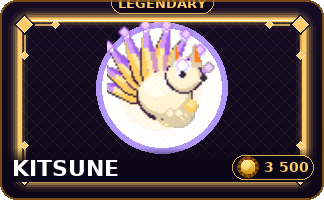
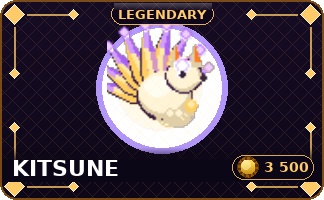
Baroque: replace solid border with corner-ornament frame
Remove GEM rectangle border and its glow. Corner flourishes (diamond pips
+ arm lines) move to the outer card corners with longer arms (46px), now
acting as the frame. Trellis pattern fills the full card. Pill anchored to
corner-arm height at top center.

Changed region(s): [[0.0, 0.0, 0.9877, 0.81], [0.0, 0.9, 0.9877, 0.99]]

diff --git a/tools/render_baroque_v5_r2.py b/tools/render_baroque_v5_r2.py
@@ -39,48 +39,20 @@ soft_glow(card, ART_CX, ART_CY, 72, (160, 140, 220), peak_alpha=50, layers=12)
 soft_glow(card, ART_CX, ART_CY, 45, GEM, peak_alpha=25, layers=6)
 card.blit(art_big, (ART_CX - art_w // 2, ART_CY - art_h // 2))
 
-# ── Diagonal diamond trellis CLIPPED TO INSIDE BORDER ONLY ────────────────────
-# Draw trellis to a temp surface then clip to inner rect via SRCALPHA mask
+# ── Diagonal diamond trellis — full card ──────────────────────────────────────
 TRELLIS_SPACING = 16
 trellis_full = pygame.Surface((W, H), pygame.SRCALPHA)
 for offset in range(-H, W + H, TRELLIS_SPACING):
     pygame.draw.line(trellis_full, (*GEM, 28), (offset, 0), (offset + H, H))
 for offset in range(0, W + H + H, TRELLIS_SPACING):
     pygame.draw.line(trellis_full, (*GEM, 28), (offset, 0), (offset - H, H))
+card.blit(trellis_full, (0, 0))
 
-# Create inner-border mask (filled rounded rect)
-inner_mask = pygame.Surface((W, H), pygame.SRCALPHA)
-inner_mask.fill((0, 0, 0, 0))
-pygame.draw.rect(inner_mask, (255, 255, 255, 255),
-                 (BDR_INSET + 2, BDR_INSET + 2,
-                  W - (BDR_INSET + 2) * 2, H - (BDR_INSET + 2) * 2),
-                 border_radius=BR)
-
-trellis_clipped = pygame.Surface((W, H), pygame.SRCALPHA)
-trellis_clipped.blit(trellis_full, (0, 0))
-trellis_clipped.blit(inner_mask, (0, 0), special_flags=pygame.BLEND_RGBA_MIN)
-card.blit(trellis_clipped, (0, 0))
-
-# ── GEM border: 4px + 5-layer outward glow ────────────────────────────────────
-for extra, alpha in [(10, 14), (7, 28), (5, 48), (3, 75), (1, 110)]:
-    gs = pygame.Surface((W, H), pygame.SRCALPHA)
-    pygame.draw.rect(gs, (*GEM, alpha),
-                     (BDR_INSET - extra, BDR_INSET - extra,
-                      W - (BDR_INSET - extra) * 2, H - (BDR_INSET - extra) * 2),
-                     extra * 2, border_radius=BR + extra)
-    card.blit(gs, (0, 0))
-pygame.draw.rect(card, GEM,
-                 (BDR_INSET, BDR_INSET, W - BDR_INSET * 2, H - BDR_INSET * 2),
-                 4, border_radius=BR)
-pygame.draw.line(card, (255, 252, 220),
-                 (BDR_INSET + BR, BDR_INSET + 2),
-                 (W - BDR_INSET - BR, BDR_INSET + 2), 1)
-
-# ── Corner flourishes: inset a few px from border so they read as separate accents
-LARGE_PIP_R = 8
-SMALL_PIP_R = 4
-ARM_LEN     = 20
-FLOU_INSET  = BDR_INSET + 6   # flourish centers sit inside the border, not on it
+# ── Corner flourishes: at outer card corners, arms form the frame ─────────────
+LARGE_PIP_R = 10
+SMALL_PIP_R = 5
+ARM_LEN     = 46
+FLOU_INSET  = 14   # outer card corners — pips replace the solid border rect
 
 def draw_diamond(surf, cx, cy, r, color=GEM, outline=(255, 248, 220)):
     pts = [(cx, cy - r), (cx + r, cy), (cx, cy + r), (cx - r, cy)]
@@ -117,7 +89,7 @@ PP, PH   = 7, tier_s.get_height() + 6
 pill_w   = tier_s.get_width() + PP * 2
 pill_x   = W // 2 - pill_w // 2
 # Pill sits above the border, with clear air between it and the frame
-pill_y   = BDR_INSET - PH - 4   # just above the border line (y < BDR_INSET)
+pill_y   = FLOU_INSET - PH // 2   # centered on the corner arm height at top
 
 pill_surf = pygame.Surface((pill_w, PH), pygame.SRCALPHA)
 pygame.draw.rect(pill_surf, (14, 7, 26, 240), (0, 0, pill_w, PH), border_radius=PH // 2)
